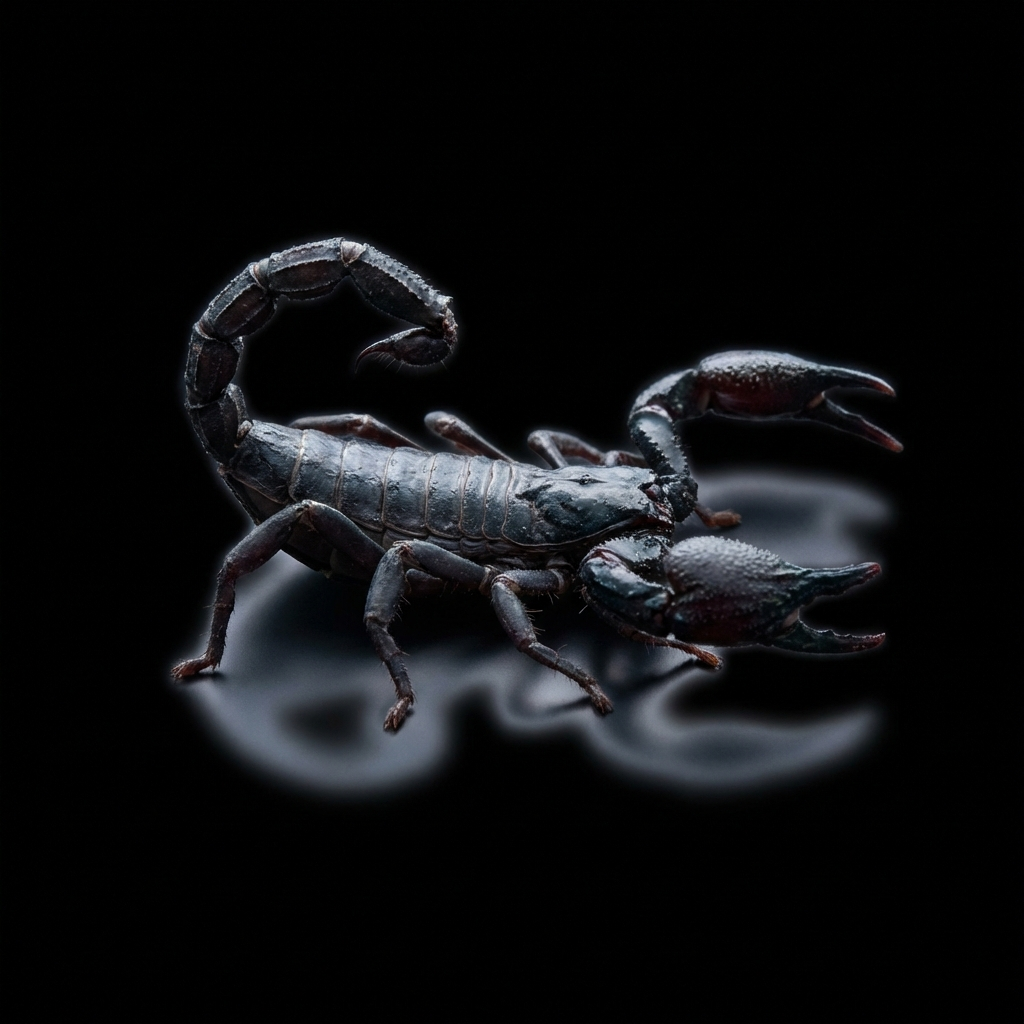
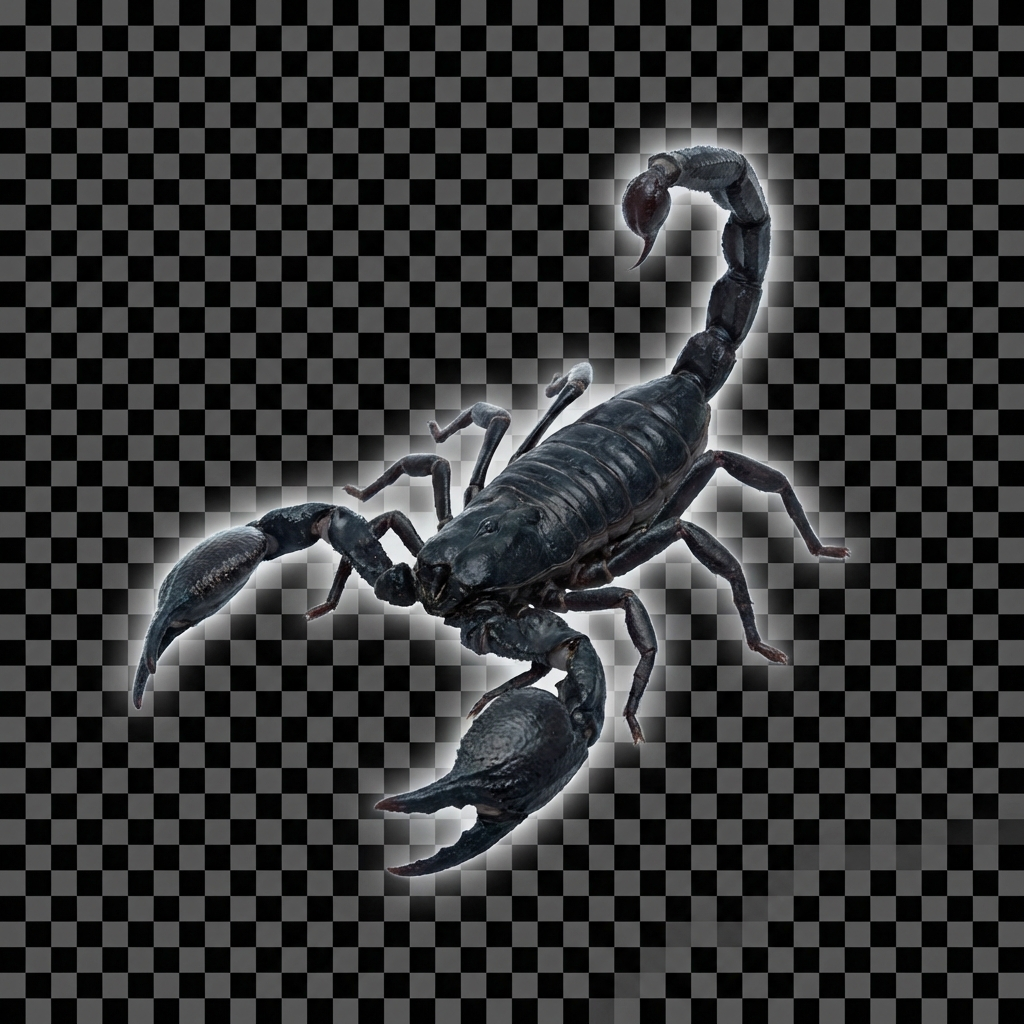
Add transparent PNG images for all floating items (animals, objects, and playing cards)

diff --git a/script.js b/script.js
@@ -23,7 +23,7 @@ function initFloatingCards() {
     const cardSymbols = ['♠', '♥', '♦', '♣'];
     const cardValues = ['A', 'K', 'Q', 'J'];
 
-    // Extreme magic items with realistic PNG images
+    // All floating items with transparent PNG images
     const extremeItems = [
         { name: 'scorpion', img: 'assets/scorpion.png' },
         { name: 'spider', img: 'assets/spider.png' },
@@ -31,15 +31,15 @@ function initFloatingCards() {
         { name: 'blade', img: 'assets/blade.png' },
         { name: 'blood', img: 'assets/blood.png' },
         { name: 'skull', img: 'assets/skull.png' },
+        // Playing cards
+        { name: 'card', img: 'assets/card_ace_spades.png' },
+        { name: 'card', img: 'assets/card_king_hearts.png' },
+        { name: 'card', img: 'assets/card_queen_diamonds.png' },
+        { name: 'card', img: 'assets/card_jack_clubs.png' },
     ];
 
-    // Create playing cards (kartu remi)
-    for (let i = 0; i < 10; i++) {
-        createFloatingCard(container, cardSymbols, cardValues);
-    }
-
-    // Create extreme items (hewan dan objek)
-    for (let i = 0; i < 12; i++) {
+    // Create all floating items (hewan, objek, dan kartu)
+    for (let i = 0; i < 18; i++) {
         createFloatingItem(container, extremeItems);
     }
 }

diff --git a/style.css b/style.css
@@ -506,7 +506,7 @@ h6 {
     }
 }
 
-/* Floating Items (Realistic PNG Images - No Background) */
+/* Floating Items (Transparent PNG Images) */
 .floating-item {
     position: absolute;
     bottom: -80px;
@@ -514,15 +514,13 @@ h6 {
     align-items: center;
     justify-content: center;
     animation: floatItem linear infinite;
-    opacity: 0.9;
+    opacity: 0.95;
 }
 
 .floating-item img {
     width: 100%;
     height: 100%;
     object-fit: contain;
-    mix-blend-mode: screen;
-    /* Makes black background transparent */
 }
 
 @keyframes floatItem {
